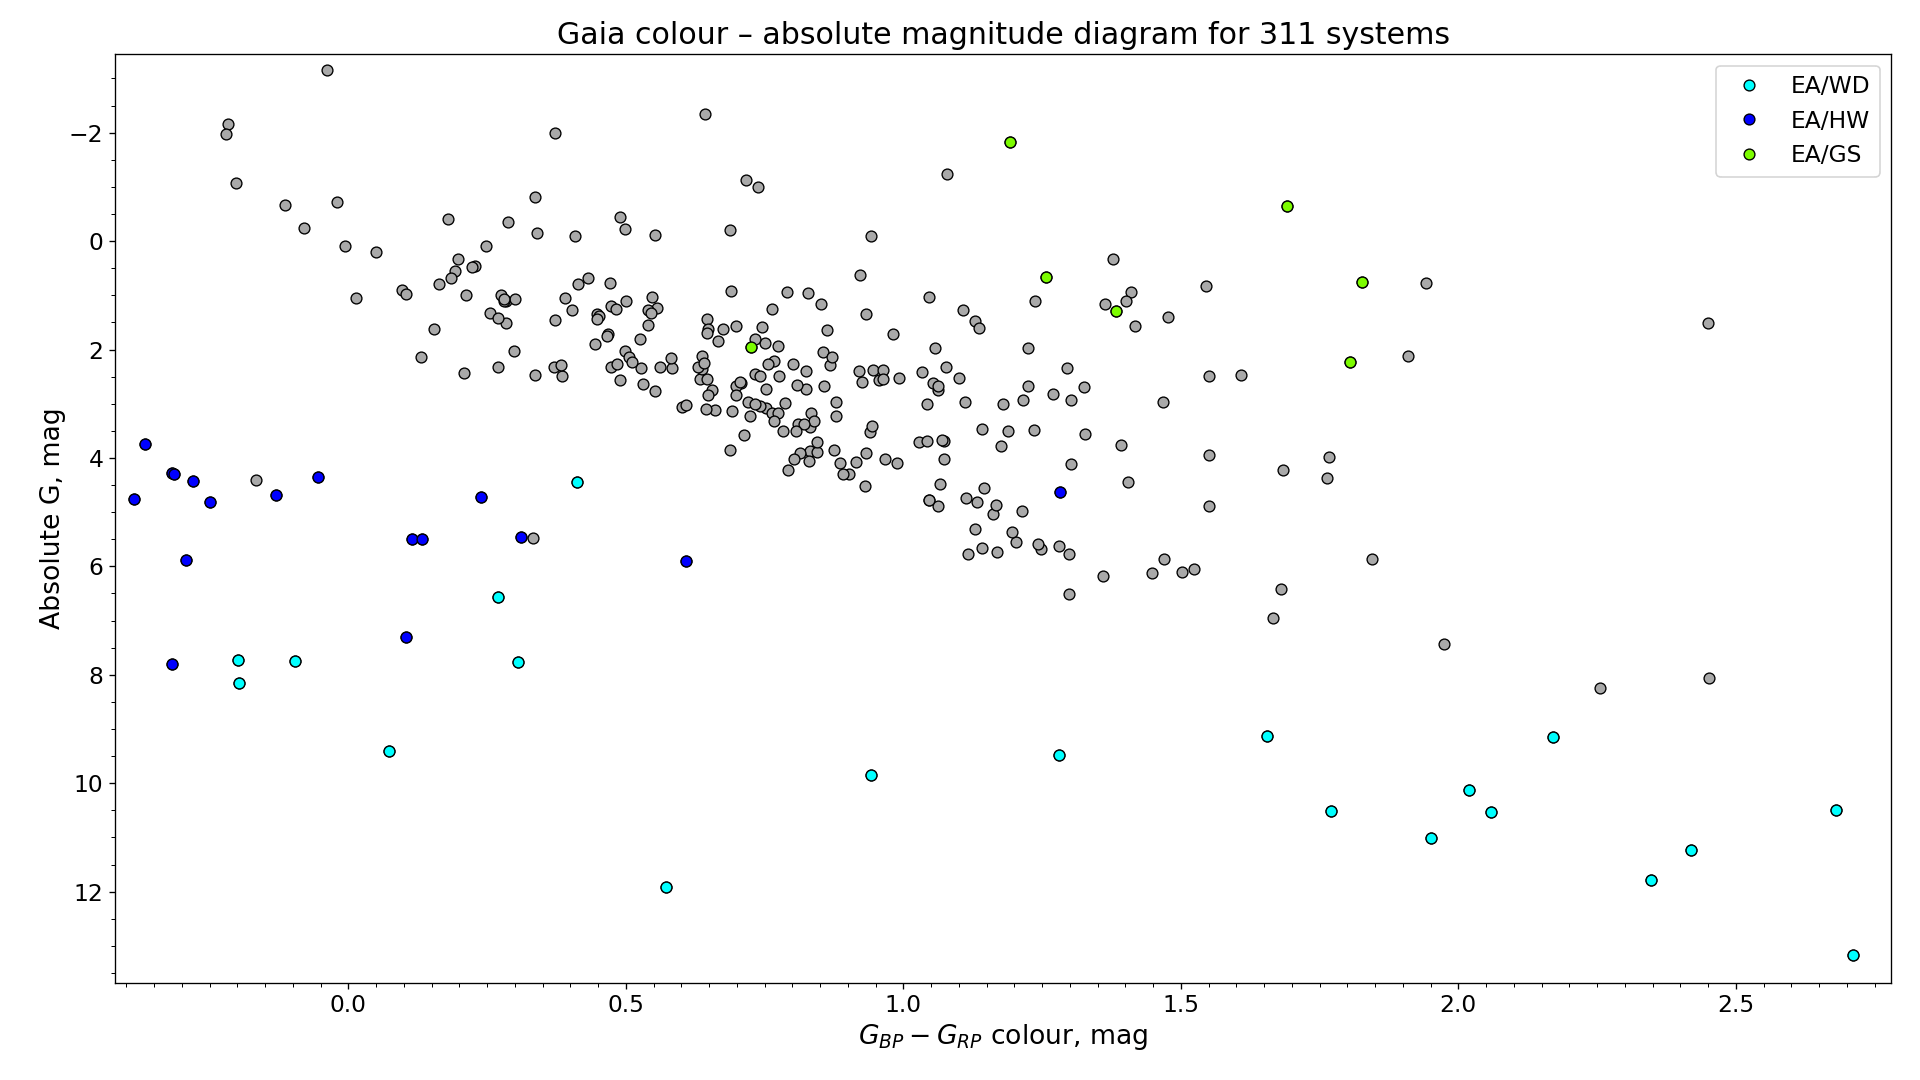
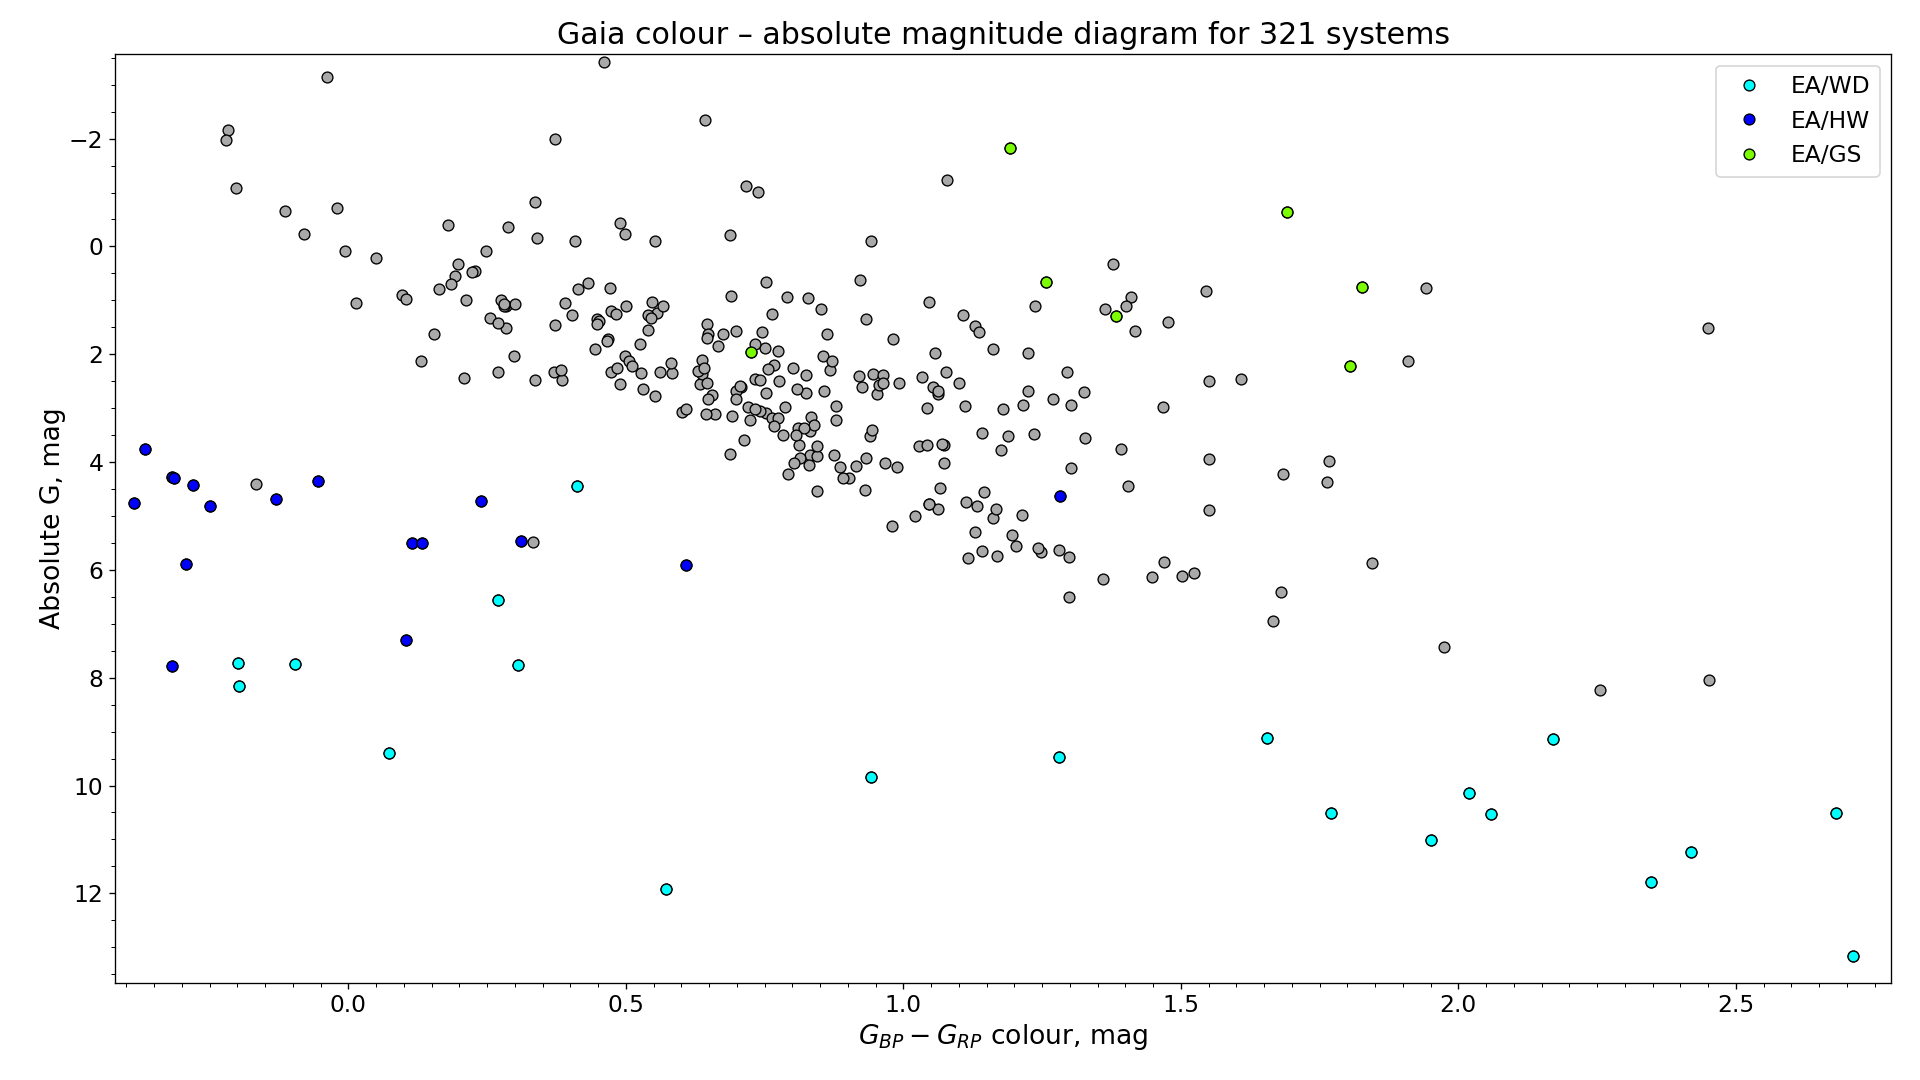
update charts & data.py

diff --git a/src/data.py b/src/data.py
@@ -2,30 +2,27 @@
 """
 
 EB_ECC = [
-    "g194", "g523", "g261", "gsc02874", "18abwvvvw", "nsv14401", "g505", "hd74588", "m1396", "cr0629", "cr0640",
-    "sao25077", "g176",
-    "tulyn",
-    "m1404", "v1403cyg", "epic1649", "g205", "cz1850",
+    "v539lyr",
+    "g194", "g523", "g261", "gsc02874", "18abwvvvw", "nsv14401", "g505", "hd74588", "m1396", "cr0629", "kelt1903", "cr0640",
+    "hd97841", "sao25077", "g176", "tulyn", "m1404", "v1403cyg", "t52924466", "epic1649", "g205", "cz1850", "g702",
     #  "mgab282",
-    "v481dra", "g182", "cz701", "cr0622", "c79-0", "19acdncga", "v1166tau", "bst0730", "m1399", "nsv18979",
-    "nsv12175", "m1356", "m1366", "cr1029", "g453", "g163", "bst21588", "v338lac", "g1829", "gds1549", "c235-13",
-    "epic1643", "g187", "cr0630", "c344-18", "18aaaawyw", "gsc04267", "g219", "oxdel", "g179", "c210-16",
-    "bst0731", "gds0722", "g460", "cz1848", "18aceoesf", "m1397", "c257-37", "cz1156", "hd180641", "tyc3983",
-    "cz1153", "g452", "c132-17", "c336-2", "g217", "18aabpshf", "hd214007",
+    "v481dra", "g182", "cz701", "cr0622", "c79-0", "19acdncga", "v1166tau", "bst0730", "m1399", "nsv18979", "nsv12175",
+    "m1356", "m1366", "cr1029", "g453", "g163", "bst21588", "v338lac", "g1829", "gds1549", "2m0339", "c235-13", "epic1643",
+    "g187", "cr0630", "c344-18", "18aaaawyw", "gsc04267", "v531lyr", "g219", "oxdel", "g179", "kelt0033", "cz1991", "nsv19944",
+    "c210-16", "bst0731", "gds0722", "g460", "cz1848", "18aceoesf", "m1397", "c257-37", "cz1156", "hd180641", "tyc3983", "epic2235",
+    "cz1153", "epic0351", "g452", "c132-17", "c336-2", "hip101703", "g217", "18aabpshf", "hd214007",
     #  P<10
-    "18aainzhi", "c88-0", "g684", "c111-36", "g204", "m1338",
+    "18aainzhi", "c88-0", "g684", "c111-36", "g204", "m1338", "g312",
     # "wsp12-29",
     "g220", "gsc0219", "cz1847", "g956", "hd49241", "hip25316", "18abuksln", "cr0849", "nsv1409", "g333", "nsv2702",
     "c311-3", "c180-34", "nsv18927", "nsv18857", "hd9056", "c256-24", "m1393", "g434", "g965", "g021-005", "gds280-4",
-    "m1349", "nsv61", "nsv19039",
-    "v1123cas",
-    "gds0705", "m1374",
+    "v2970cyg", "m1349", "nsv61", "nsv19039", "ckaur", "v1123cas", "gds0705", "m1374",
     #  P<4
     "nsv18898", "g216",
     #  nsv14400,
-    "nsv14698", "m1398", "nsv3760", "nsv8389", "nsv3749",
+    "nsv14698", "aepic", "m1398", "nsv3760", "kelt2324", "nsv8389", "hd54896", "nsv3749",
     #  ewcru,
-    "nsv3481",
+    "v1154tau", "nsv3481",
 ]
 
 EB_ECC_REF = [
@@ -82,16 +79,21 @@ EB_GS = [
 ]
 
 EB = [
-    "v2291oph", "gds0644", "lwpup", "v698cyg", "epic0603", "gds0852", "hngem", "hd10220", "cr3573", "ztf356-58",
-    "nsv13073", "v476lac", "cz517", "cz250", "nsv17180", "g109", "oblg117530", "v374cyg", "nsv17721", "c350-33",
-    "as357-18", "c65-1", "17aablgmo", "gds0754", "cz1826", "n171549", "cz501", "c349-7", "17aadnujm", "cz257",
-    "g2613", "gri1", "n637-68", "nsv18968", "nsv5437", "ptf5-6432", "dde2", "cz1225", "cz127", "da240", "cz2494", "nsv4595",
+    "v2291oph", "gds0644", "lwpup", "v698cyg", "epic0603", "gds0852", "hngem", "hd10220", "cr3573", "ztf356-58", "nsv13073",
+    "v1016per", "v476lac", "cz517", "cz250", "nsv17180", "g109", "oblg117530", "v374cyg", "nsv17721", "as357-18", "c350-33",
+    "nsvs1932", "c65-1", "g170", "17aablgmo", "nsv4509", "gds0754", "cz1826", "aisv1836", "n171549", "cz501", "nsv18777",
+    "c349-7", "17aadnujm", "cz257", "g2613", "gri1", "c37-18", "n637-68", "nsv18968", "nsv5437", "ptf5-6432", "dde2", "cz1225",
+    "cz127", "c108-28", "da240", "cz2494", "nsv4595",
     #  P<4
-    "17aabgexm", "brh160", "18abryisf", "c70-6", "18acrvwcz", "hd277600", "a293-29", "g16ams", "c248-3", "18aagibwi",
-    "u170", "18abqadhy", "da243", "dde63", "u248199", "navl02", "c86-5", "svkv70", "nsv1791", "u248",
+    "gsc1958", "17aabgexm", "brh160", "hd13716", "dde207", "18abryisf", "18abujawk", "c70-6", "18acrvwcz", "hd277600", "a293-29", "g16ams",
+    "dde58", "c248-3", "18aagibwi", "u170", "epic0636", "bd61320", "dde43", "18aaapdvk", "18abqadhy", "dde62", "18accbyba", "dde205", "nsv20816",
+    "beuma", "18abbeqiq", "da243", "18aablqtm", "18aabkmsm", "hd261171", "20aaobwvw", "dde63", "u248199", "g2051", "navl02", "dde33",
+    "dde60", "c86-5", "svkv70", "dde203", "karachurin8", "18aablhoq", "dde64", "nsv1791", "dde222", "18aabhpso", "cz968", "u248", "dde215",
     "dde65",  # Vakhlova LV1
-    "c154-3", "bmam440", "sd1443", "c66-7", "z0308", "c23-13", "u240", "u222", "z1844", "vssp0747", "nada99", "u244-187", "n2fu0", "g986",
-    "z1954", "sd0344", "z1454", "gds0746", "mg297", "ec12250", "dde193", "dde157", "z0547", "2m1358", "z1927",
+    "dde192", "c154-3", "z1220", "18aabgitx", "bmam440", "dde78", "sd1443", "19aakqteu", "18aaaaqlo", "c66-7", "z0308", "18adaucsy",
+    "iicha", "c23-13", "u240", "u222", "z1844", "vssp0747", "nada99", "z1256", "u244-187", "dde160", "n2fu0", "z0717", "unsw321",
+    "dde74", "g986", "z1954", "sd0344", "dde34", "g586", "z1454", "dde172", "ato283", "wise0754", "wd1309", "gds0746", "l1013", "mg297",
+    "dde80", "ec12250", "dde206", "dde176", "bmam443", "dde193", "dde157", "z0547", "ptf0113", "sbg129", "z2036", "2m1358", "mg3386", "z1927",
 ]
 
 EB_REF = [
@@ -109,25 +111,37 @@ EB_OGLE_BLG = [
 ]
 
 EB_MPP = [
-    "minkovskiy4", "minkovskiy5", "minkovskiy6", "minkovskiy8", "minkovskiy11",
+    "gusev4", "minkovskiy4", "minkovskiy5", "minkovskiy6", "minkovskiy8", "minkovskiy11",
     "minkovskiy15", "minkovskiy16", "minkovskiy17", "minkovskiy18", "minkovskiy19",
-    "minkovskiy20", "minkovskiy21", "minkovskiy23", "minkovskiy24", "gusev4",
+    "minkovskiy20", "minkovskiy21", "minkovskiy23", "minkovskiy24",
 ]
 
 EB_DDE = [
-    # "dde207",
-    "dde58", "dde62",
-    # "dde205"
-    # "dde63",
-    "dde60", "dde203", "dde64",
-    # "dde215",
-    # "dde192",
-    "dde78", "dde74",
-    # "dde172",
-    # "dde160",
-    "dde80", "dde176",
-    # "dde193",
-    # "dde157",
+    "dde2",
+    "dde207",
+    "dde58",
+    "dde43",
+    "dde62",
+    "dde205",
+    "dde63",
+    "dde33",
+    "dde60",
+    "dde203",
+    "dde64",
+    "dde222",
+    "dde215",
+    "dde65",
+    "dde192",
+    "dde78",
+    "dde160",
+    "dde74",
+    "dde34",
+    "dde172",
+    "dde80",
+    "dde206",
+    "dde176",
+    "dde193",
+    "dde157",
 ]
 
 EB_WD = [
@@ -231,13 +245,18 @@ TESS_QLP_SECT = {
     "18aceoesf": [6, 33, 43, 44, 45, 71, 72],
     "18acrvwcz": [19, 59],
     "19acdncga": [],  # CDIPS
+    "18adaucsy": [7],
+    "2m0339": [86, 18],
     "a293-29": [14, 40, 41, 54, 74],
     "as0622": [20, 60, 73],
     "as357-18": [56],
+    "aepic": [1, 2, 5, 6, 7, 8, 9, 10, 11, 12, 13, 27, 28, 29, 30, 31, 32, 33, 35, 36, 37, 38, 39, 61, 62, 63, 64, 66, 67, 69, 87, 88, 89],
+    "bd61320": [24, 25, 58, 85],
     "brh160": [15, 41, 55],
-    "bst0730": [7, 34, 61],
-    "bst0731": [7, 34, 61],
-    "bst21588": [7, 34, 61],
+    "bst0730": [7, 34, 61, 88],
+    "bst0731": [7, 34, 61, 88],
+    "bst17035": [7, 34, 61, 88],
+    "bst21588": [88, 61, 34, 7],
     "c70-6": [5, 32],
     "c23-13": [3],  # TGLC, GSFC-ELEANOR-LITE
     "c64-29": [19, 43, 44, 59, 70, 71],  # CST
@@ -247,13 +266,15 @@ TESS_QLP_SECT = {
     "c132-17": [44, 45, 46, 72],  # K2
     "c154-3": [8, 35, 45, 46, 72],
     "c349-7": [42, 70],  # K2
+    "ckaur": [59, 73, 86, 19],
+    "cr0626": [87],
     "cr0629": [6, 33, 87],
-    "cr0630": [6, 33],
+    "cr0630": [6, 33, 87],
     "cr0640": [6, 33],
     "cr0649": [6, 33],
     "cr0849": [54, 80],
     "cr1029": [6, 33],
-    "cr1924": [54],
+    "cr1924": [54, 81],
     "cr3573": [6, 33],
     "cs053783": [12, 13, 27, 39, 65, 67],
     "cz127": [17, 18, 57, 58, 77, 78],
@@ -267,13 +288,18 @@ TESS_QLP_SECT = {
     "cz1850": [19, 43, 44, 45, 71, 72],
     "cz2494": [14, 41, 54, 55],
     "cz3313": [34, 61, 88],
+    "cz1991": [43, 44, 45, 71, 72],  # , 87, 88
+    "cz968": [17, 18, 24, 57, 58, 77, 78, 84, 85],
     "da240": [14, 40, 41, 54],
-    "da243": [14, 41, 54, 55],
+    "da243": [14, 41, 54, 55, 81, 82],
     "dde2": [20, 60, 73],
     "dde58": [19, 43, 44, 59],
     "dde65": [20, 47, 60],
     "epic0603": [43, 44, 45, 71, 72],
+    "epic0636": [43, 44, 45, 71, 72],
     "epic2061": [42],
+    "epic0351": [42, 43, 70, 71, 44],
+    "epic2235": [42, 92],
     "ewcru": [11, 37, 38, 64],
     "fhcyg": [14, 40, 41, 74],
     "g021-005": [14, 40, 41, 74],
@@ -288,9 +314,11 @@ TESS_QLP_SECT = {
     "gsc0219": [15, 55, 56],
     "gsc02874": [58, 18, 86],
     "gsc04267": [16, 17, 24, 58, 78, 83, 84, 85],
+    "gsc1958": [14, 41, 54, 55, 74, 75, 81, 82],
     "g109": [26, 40, 47, 53, 60, 74],
     "g163": [14, 15, 16, 17, 18, 19, 20, 21, 22, 23, 24, 25, 26, 40, 41, 47, 48,
              49, 50, 51, 52, 53, 54, 55, 56, 57, 58, 59, 60, 73, 74],
+    "g170": [86, 19, 43, 44, 59],
     "g176": [55, 82],
     "g179": [55],  # Magnitudes contaminated by CSS J213215.7+214350, P=0.3204094 21 32 15.71 +21 43 50.5
     "g182": [14, 41, 54],
@@ -302,6 +330,7 @@ TESS_QLP_SECT = {
     "g219": [15, 16, 17, 56, 57],
     "g220": [16, 17, 18, 24, 57, 58, 77, 78],
     "g261": [19, 59, 73],
+    "g312": [6, 33],
     "g333": [6, 32],
     "g434": [18, 58],
     "g452": [26, 40, 53],
@@ -309,27 +338,40 @@ TESS_QLP_SECT = {
     "g460": [25, 26, 52, 53],
     "g505": [18],  # primary min only
     "g523": [18, 24, 58, 78],  # secondary min only
+    "g528": [4, 8, 9, 10, 11, 28, 31, 34, 35, 36, 37, 38, 61, 62, 63, 64, 68, 88, 89],  # 1
     "g609": [11, 65],
     "g684": [44, 45, 47, 71],
+    "g702": [21, 45, 46, 71, 72],
     "g956": [20, 60, 73],
     "g965": [20, 60, 73],
+    "g2051": [14, 40, 41, 54, 55, 81],  # 74, 75,
     "g1829": [14, 41, 54, 55],
     "g2613": [19, 59, 73],
+    "hd97841": [10, 36, 37, 63],
     "hd9056": [18, 24, 25, 58],
     "hd10220": [18, 19, 25, 26, 40, 52, 53, 59, 60, 73, 79],
+    "hd54896": [60, 47, 20],
     "hd74588": [44, 45, 46, 72],
     "hd214007": [16, 17, 24, 57, 58, 77, 78, 84, 85],
+    "hd261171": [6, 87],
     "hd277600": [59, 73, 19],
     # "hd10220": [18, 25, 40, 53, 60, 73],
     "hd49241": [44, 45, 71, 72],
     "hd180641": [54, 80],
+    "hd13716": [18, 58, 85],
     "hip25316": [19, 59, 73],
+	"hip43579": [8, 9, 35, 36, 62, 63, 89],
+    "hip101703": [15, 41, 55, 56, 76, 82, 83],
+    "iicha": [12, 37, 38, 39, 65],
     "karachurin12": [14, 15, 16, 17, 19, 20, 21, 22, 23, 24, 25, 26, 40, 41, 47, 48, 49, 50, 51, 52, 53, 54, 55, 56, 57, 58, 59, 60],
+    "kelt0033": [17, 57, 84],
+    "kelt1903": [40, 54, 80, 81],
+    "kelt2324": [57, 83, 84],
     "kic9153621": [14, 15, 40, 41, 54, 55, 74, 75, 81],
     "kid1900": [40, 41, 53, 54, 55, 74, 75, 80, 82],
     "koi436": [],  # TESS TICA TASOC only
     "koi1008": [],  # TESS TICA only
-    "koi3155": [14, 15, 41, 54, 55, 74, 75, 81],
+    "koi3155": [14, 15, 41, 54, 55, 74, 75, 81, 82],
     "koi3510": [14, 15, 40, 74, 75],
     "koi3511": [14, 40, 41, 54, 55, 74, 75],
     "koi3711": [],  # TESS TICA TASOC only no eclipses
@@ -357,6 +399,7 @@ TESS_QLP_SECT = {
     "nsv3481": [7, 33],
     "nsv3749": [7, 61],
     "nsv3760": [7, 61],
+    "nsv4509": [21, 44, 45, 46, 48],
     "nsv4595": [9, 10, 11, 36, 37, 38, 63, 64],
     "nsv5437": [10, 37, 63],
     "nsv5489": [22, 49],
@@ -366,33 +409,49 @@ TESS_QLP_SECT = {
     "nsv14400": [17, 24, 57, 77],  # TESS contamination from (brighter) EA NSV14401
     "nsv14401": [17, 24, 57, 77],  # TESS contamination from EA NSV14400
     "nsv14698": [17, 18, 24, 57, 58],  # rapid apsidal motion
-    "nsv17180": [6, 7, 8, 33, 34, 61],
+    "nsv17180": [6, 7, 8, 33, 34, 61, 87, 88],
     "nsv17721": [20, 26, 40, 47, 53, 60, 73, 74],
     "nsv18774": [9, 36],
+    "nsv18777": [22, 48],
     "nsv18857": [10, 11, 37, 38, 64],
     "nsv18927": [10, 11, 37, 38, 64],
+    "nsv19944": [11, 38, 65],
+    "nsv20816": [66, 39],  # 12,
     # "nsv18968": [10, 11],
     "nsv18968": [37, 38, 64],
     "nsv18979": [10, 11, 37, 38, 64],
     "nsv19039": [10, 11, 37, 38, 64],
+    "nsv20805": [12, 39, 66],
+    "nsvs1932": [14, 15, 16, 17, 18, 19, 20, 21, 22, 23, 24, 25, 26, 40, 41, 47, 48, 49, 50, 51, 52, 53, 54, 55, 56, 57,
+                 58, 60, 73, 74, 75, 76, 77, 78, 79, 80, 81, 82, 83, 84, 85, 86],
     "oblg117530": [39],
     "oblg165652": [39], # empty
     "oxdel": [55],
     "ptf5-6432": [6, 32],
+    "qyvul": [14, 41, 54, 74, 75, 81],
     "sao25077": [73, 19, 59, 86],
+    "t52924466": [6, 34, 87, 88, 33, 7],
+    "t165721304": [15, 16, 22, 23, 49, 50, 51, 76, 77],
+    "t41591173": [1, 4, 5, 6, 7, 8, 10, 11, 13, 27, 28, 30, 31, 33, 34, 35, 37, 38, 62, 63, 64, 65, 66, 67, 87, 89, 90],
     "tulyn": [20, 60, 73],
     "tyc3983": [16, 17, 56, 57, 76, 77],
     "u240": [14, 40, 41, 54, 74],
     "u248": [14, 41, 54, 55, 74],
     "u248199": [14, 41, 54, 55, 74],
     "u244-187": [14, 41, 54, 55, 74, 75, 81],
+    "v531lyr": [26, 40, 53, 54, 80, 81],  # 26, 40, 53, 54, 80,
+    "unsw321": [1, 2, 28, 68],
+    "v539lyr": [14, 26, 40, 41, 53, 54, 74, 80, 81],
+    "v1016per": [18, 58, 86],
     "v2291oph": [80],
     "v338lac": [16, 17, 56, 57],
     "v476lac": [16, 17, 57],
     "v374cyg": [15, 41, 55],
     "v698cyg": [14, 15, 41, 54, 55, 74],
+    "v2970cyg": [14, 15, 16, 41, 55, 56, 75, 76, 82, 83],
     "v1403cyg": [16, 56, 57, 76, 77],
     "v1123cas": [18, 25, 58],
+    "v1154tau": [43, 71],
     "v481dra": [15, 16, 17, 18, 19, 21, 22, 23, 24, 25, 41, 47, 48, 49, 50, 51,
                 52, 54, 55, 56, 57, 58, 74, 75, 76, 77, 78, 79, 80, 81, 82, 83, 84, 85],
     "v1166tau": [43, 44, 45, 71, 72],
